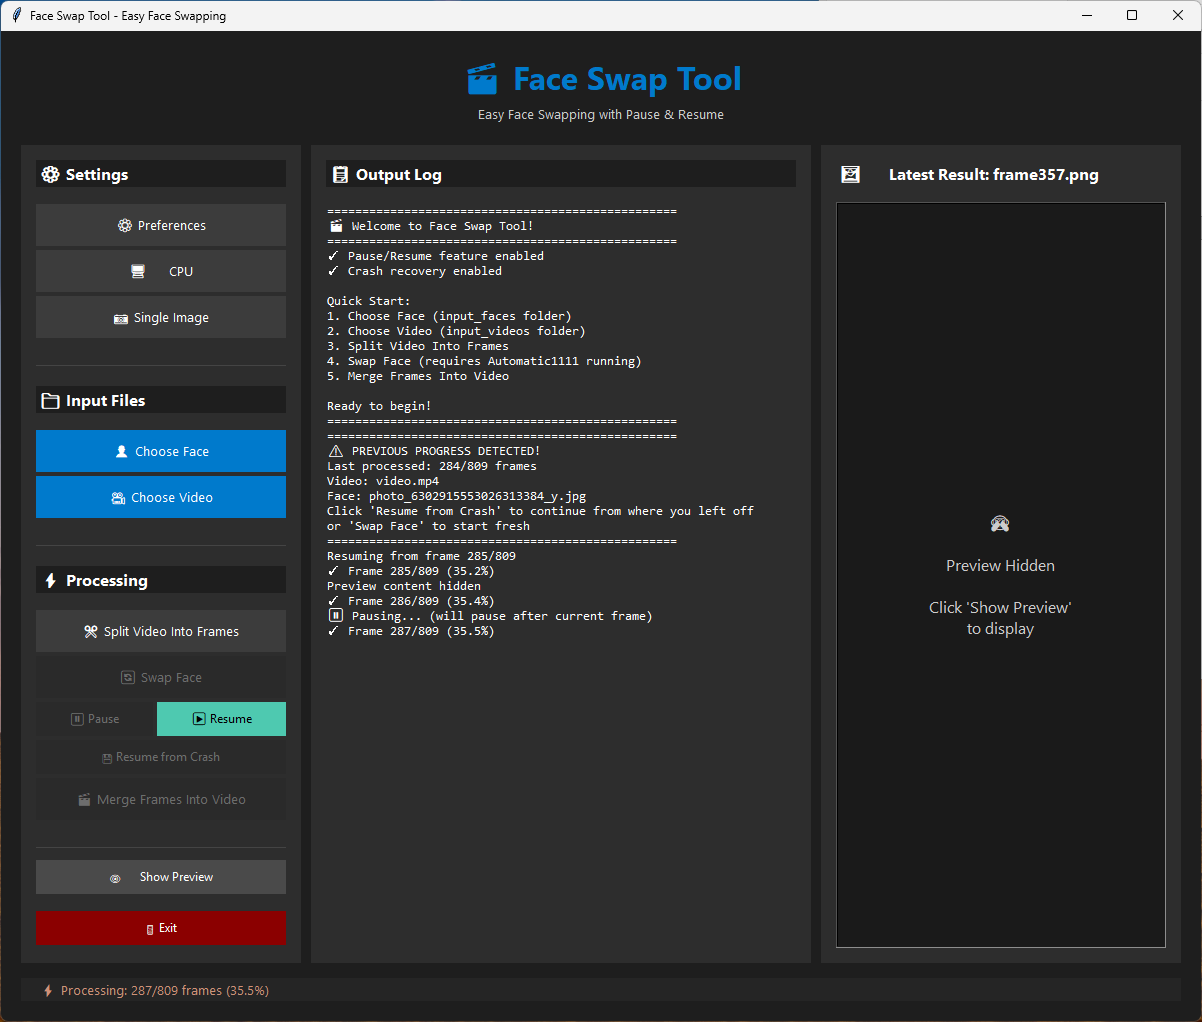
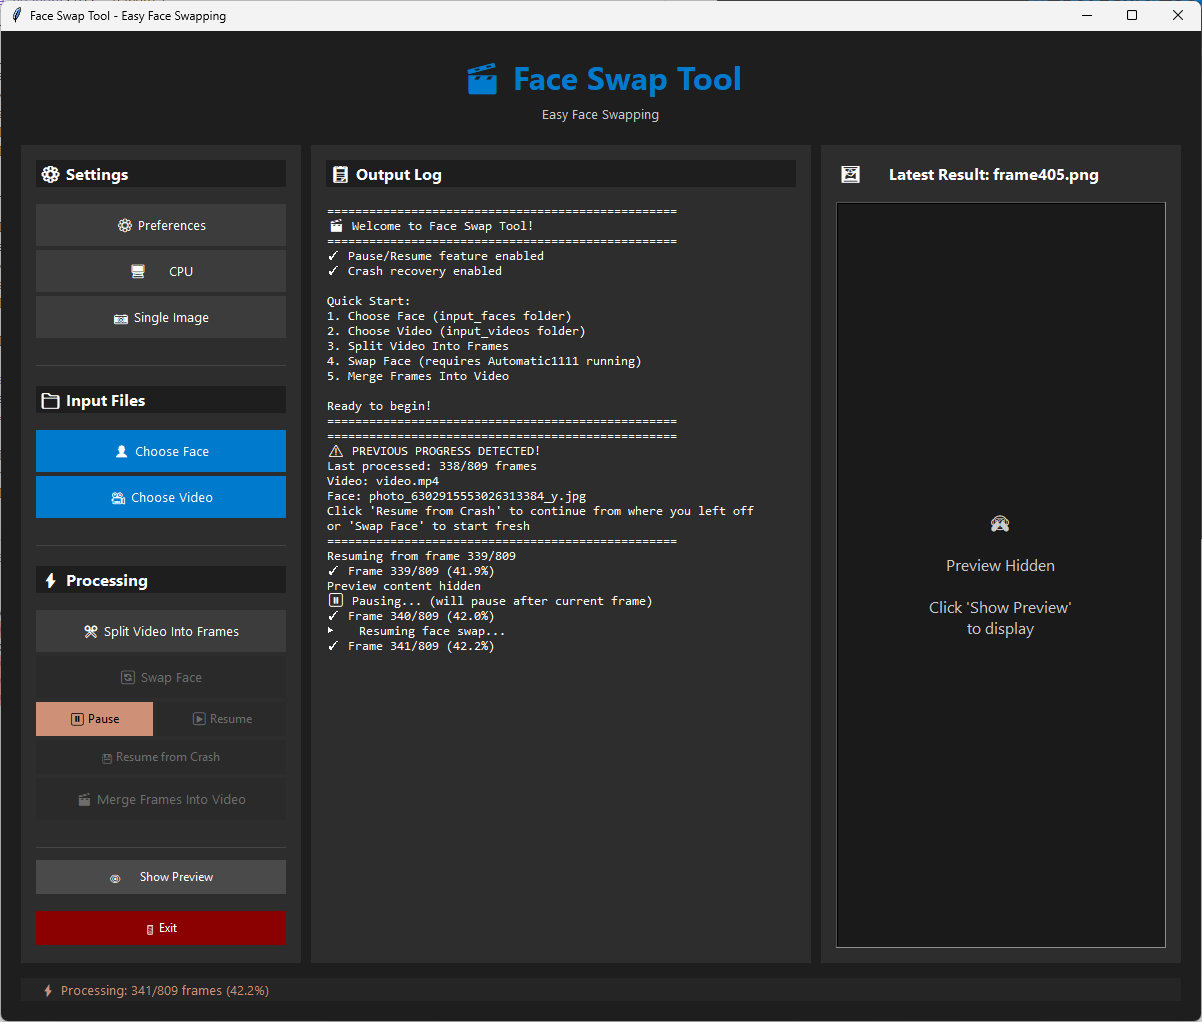
update

diff --git a/src/ui/main_window.py b/src/ui/main_window.py
@@ -116,7 +116,7 @@ class FaceSwapApp:
         
         subtitle_label = StyledLabel(
             header_frame,
-            text="Easy Face Swapping with Pause & Resume",
+            text="Easy Face Swapping",
             size="subtitle",
             color=Colors.TEXT_SECONDARY
         )
